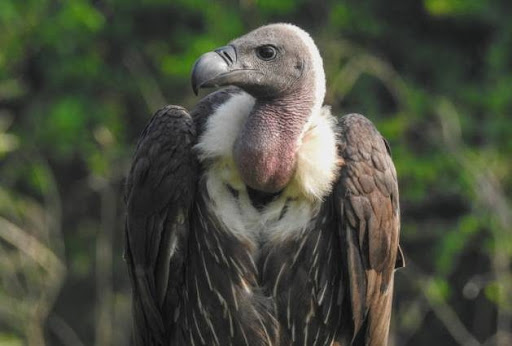
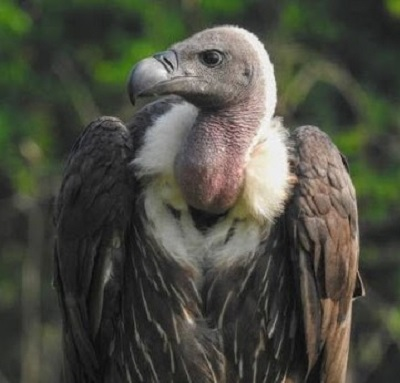
Adding Images, tables and buttons and drop down

diff --git a/animals.html b/animals.html
@@ -14,6 +14,11 @@
     <script src="https://cdn.jsdelivr.net/npm/bootstrap@5.0.2/dist/js/bootstrap.min.js"
         integrity="sha384-cVKIPhGWiC2Al4u+LWgxfKTRIcfu0JTxR+EQDz/bgldoEyl4H0zUF0QKbrJ0EcQF"
         crossorigin="anonymous"></script>
+    <style>
+        tr:nth-child(even) {
+            background-color: lavenderblush;
+        }
+    </style>
 
 </head>
 
@@ -41,16 +46,97 @@
     <p>When I reduce my browser size, Animal names breaks first. For classes that has small sm we are using small column
         length. For medium length. When we are reducing screen size medium column breaks first.</p>
 
-        <div class="containrer">
-            <img src="images/Adelie penguin.jpg" alt="Adelie Penguin" width="350" height="400">
-            <img src="images/Deer.jpg" alt="Deer" width="400" height="400">
-            <img src="images/Vulture.jpg" alt="Vulture" width="400" height="400">
+    <div class="container">
+        <img src="images/Adelie penguin.jpg" alt="Adelie Penguin" width="400" height="400">
+        <img src="images/Deer.jpg" alt="Deer" width="400" height="400">
+        <img src="images/Vulture.jpg" alt="Vulture" width="400" height="400">
+    </div>
+    <div class="container">
+        <img src="images/Adelie penguin.jpg" class="img-thumbnail" alt="Adelie Penguin" width="400" height="400">
+        <img src="images/Deer.jpg" class="img-thumbnail" alt="Deer" width="400" height="400">
+        <img src="images/Vulture.jpg" class="img-thumbnail" alt="Vulture" width="400" height="400">
+    </div>
+    <table class="table table-bordered caption-top"
+        style="width:50%; border: solid rgb(156, 129, 129); border-collapse: collapse;">
+        <caption>List of Animals</caption>
+        <thead>
+            <tr style="background-color: lavender;">
+                <th scope="col">Letter</th>
+                <th scope="col">Animals</th>
+                <th scope="col">City</th>
+                <th scope="col">Car</th>
+            </tr>
+        </thead>
+        <tbody>
+            <tr>
+                <th scope="row">V</th>
+                <td>Vulture</td>
+                <td>Vancouver</td>
+                <td>Vencer</td>
+            </tr>
+            <tr>
+                <th scope="row">A</th>
+                <td>African Civet</td>
+                <td>Amarillo</td>
+                <td>Audi</td>
+            </tr>
+            <tr>
+                <th scope="row">I</th>
+                <td>Impala</td>
+                <td>Irvine</td>
+                <td>I3-BMW</td>
+            </tr>
+            <tr>
+                <th scope="row">D</th>
+                <td>Deer</td>
+                <td>Dallas</td>
+                <td>Dart</td>
+            </tr>
+            <tr>
+                <th scope="row">Y</th>
+                <td>Yak</td>
+                <td>Yuma</td>
+                <td>Yaris</td>
+            </tr>
+            <tr>
+                <th scope="row">A</th>
+                <td>Adelie Penguin</td>
+                <td>Arlington</td>
+                <td>Aurus Senat</td>
+            </tr>
+        </tbody>
+    </table>
+    <br>
+    <button type="button" class="btn" style="background-color: blue;">V</button>
+    <button type="button" class="btn" style="background-color: blue;">A</button>
+    <button type="button" class="btn" style="background-color: blue;">I</button>
+    <button type="button" class="btn" style="background-color: blue;">D</button>
+    <button type="button" class="btn" style="background-color: blue;">Y</button>
+    <button type="button" class="btn" style="background-color: blue;">A</button>
+    <div class="container">
+        <div class="btn-group" role="group" aria-label="Basic mixed styles example">
+            <button type="button" class="btn btn-success">V</button>
+            <button type="button" class="btn btn-success">D</button>
+            <button type="button" class="btn btn-success">A</button>
         </div>
-        <div class="container">
-            <img src="Adelie penguin.jpg" class="img-thumbnail" alt="Adelie Penguin" width="350" height="400">
-            <img src="images/Deer.jpg" class="img-thumbnail" alt="Deer" width="400" height="400">
-            <img src="images/Vulture.jpg" class="img-thumbnail" alt="Vulture" width="400" height="400">
+        <div class="btn-group" role="group" aria-label="Basic mixed styles example">
+            <button type="button" class="btn btn-warning">I</button>
+            <button type="button" class="btn btn-warning">Y</button>
         </div>
+        <div class="btn-group" role="group" aria-label="Basic mixed styles example">
+            <button type="button" class="btn btn-danger">A</button>
+        </div>
+    </div>
+    <div class="dropdown" >
+        <button class="btn dropdown-toggle" style="background-color: lightblue;" type="button" id="dropdownMenuButton1" data-bs-toggle="dropdown" aria-expanded="false">
+          Menu
+        </button>
+        <div class="dropdown-menu">
+          <a class="dropdown-item" href="play.html">To Play</a>
+          <a class="dropdown-item" href="train.html">To Train</a>
+        </div>
+      </div>
+
 </body>
 
 </html>

diff --git a/train.html b/train.html
@@ -1,0 +1,24 @@
+<!DOCTYPE html>
+<html lang="en">
+
+<head>
+    <title>Balaya Train</title>
+    <meta charset="utf-8">
+    <meta name="viewport" content="width=device-width, initial-scale=1">
+
+    <link href="https://cdn.jsdelivr.net/npm/bootstrap@5.0.2/dist/css/bootstrap.min.css" rel="stylesheet"
+        integrity="sha384-EVSTQN3/azprG1Anm3QDgpJLIm9Nao0Yz1ztcQTwFspd3yD65VohhpuuCOmLASjC" crossorigin="anonymous">
+    <script src="https://cdn.jsdelivr.net/npm/@popperjs/core@2.9.2/dist/umd/popper.min.js"
+        integrity="sha384-IQsoLXl5PILFhosVNubq5LC7Qb9DXgDA9i+tQ8Zj3iwWAwPtgFTxbJ8NT4GN1R8p"
+        crossorigin="anonymous"></script>
+    <script src="https://cdn.jsdelivr.net/npm/bootstrap@5.0.2/dist/js/bootstrap.min.js"
+        integrity="sha384-cVKIPhGWiC2Al4u+LWgxfKTRIcfu0JTxR+EQDz/bgldoEyl4H0zUF0QKbrJ0EcQF"
+        crossorigin="anonymous"></script>
+
+</head>
+
+<body>
+    <header>In Train</header>
+</body>
+
+</html>

diff --git a/play.html b/play.html
@@ -1,0 +1,24 @@
+<!DOCTYPE html>
+<html lang="en">
+
+<head>
+    <title>Sye Play</title>
+    <meta charset="utf-8">
+    <meta name="viewport" content="width=device-width, initial-scale=1">
+
+    <link href="https://cdn.jsdelivr.net/npm/bootstrap@5.0.2/dist/css/bootstrap.min.css" rel="stylesheet"
+        integrity="sha384-EVSTQN3/azprG1Anm3QDgpJLIm9Nao0Yz1ztcQTwFspd3yD65VohhpuuCOmLASjC" crossorigin="anonymous">
+    <script src="https://cdn.jsdelivr.net/npm/@popperjs/core@2.9.2/dist/umd/popper.min.js"
+        integrity="sha384-IQsoLXl5PILFhosVNubq5LC7Qb9DXgDA9i+tQ8Zj3iwWAwPtgFTxbJ8NT4GN1R8p"
+        crossorigin="anonymous"></script>
+    <script src="https://cdn.jsdelivr.net/npm/bootstrap@5.0.2/dist/js/bootstrap.min.js"
+        integrity="sha384-cVKIPhGWiC2Al4u+LWgxfKTRIcfu0JTxR+EQDz/bgldoEyl4H0zUF0QKbrJ0EcQF"
+        crossorigin="anonymous"></script>
+
+</head>
+
+<body>
+    <header>In Play</header>
+</body>
+
+</html>
